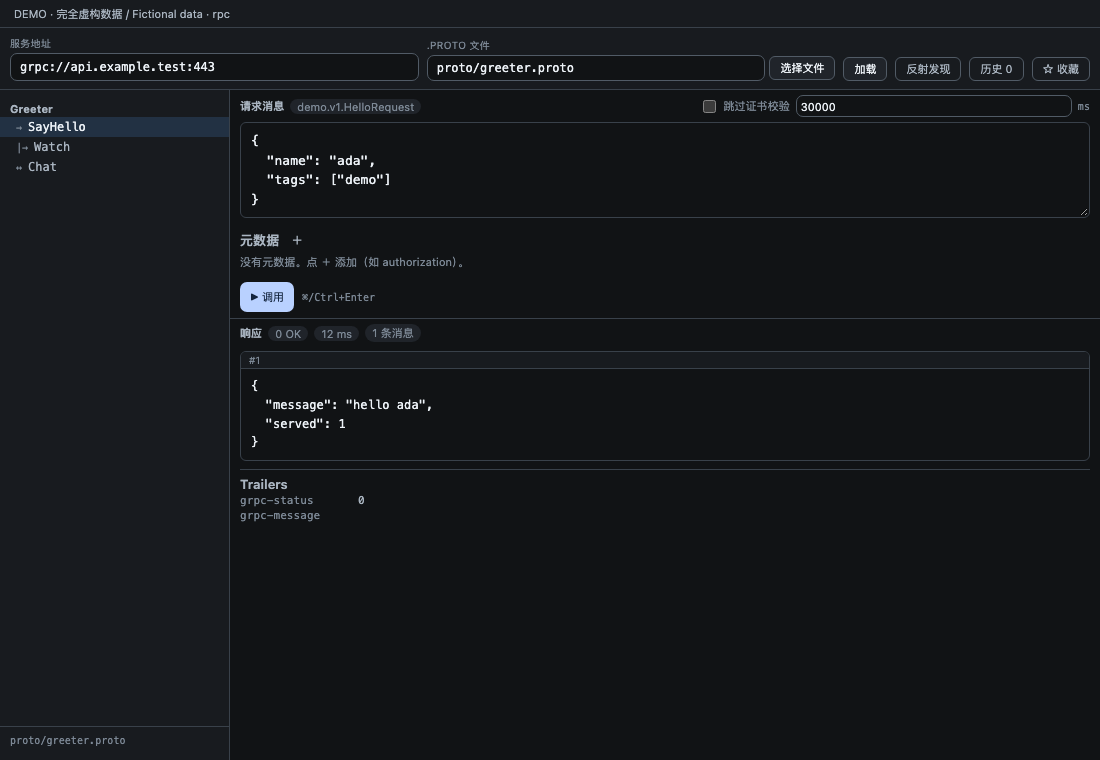
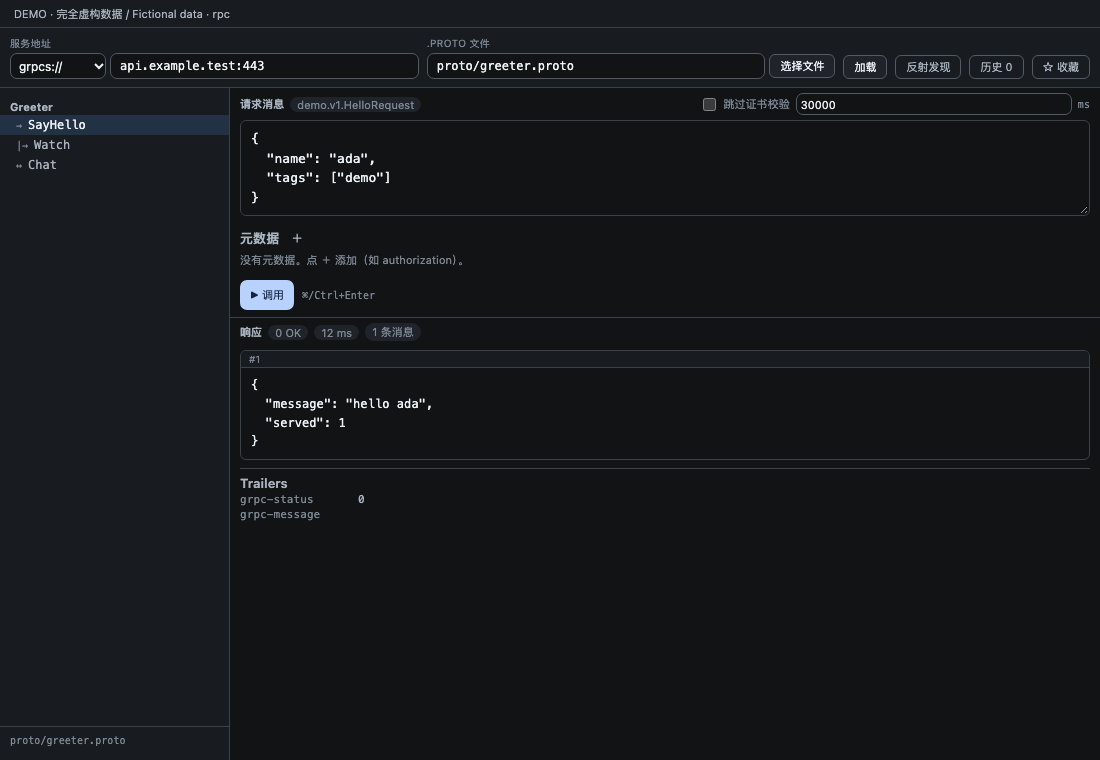
feat(rpc): the address field takes host:port with the scheme as a selector

diff --git a/client.js b/client.js
@@ -434,6 +434,7 @@ var zh = {
   "rpc.reflectionUnavailable": "该服务未开启反射，请改用 .proto 文件",
   "rpc.skippedServices": "部分服务没有可用的描述符，已跳过",
   "rpc.browse": "选择文件",
+  "rpc.scheme": "协议（grpc 明文 / grpcs TLS）",
   "rpc.browseHint": "从工作区里挑一个 .proto 文件",
   "rpc.pickProto": "选择 .proto 文件",
   "rpc.pickPlaceholder": "搜索 .proto 文件…",
@@ -1155,6 +1156,7 @@ var en = {
   "rpc.reflectionUnavailable": "This server does not expose reflection; use a .proto file instead",
   "rpc.skippedServices": "Some services have no descriptors and were skipped",
   "rpc.browse": "Choose file",
+  "rpc.scheme": "Scheme (grpc plaintext / grpcs TLS)",
   "rpc.browseHint": "Pick a .proto file from the workspace",
   "rpc.pickProto": "Choose a .proto file",
   "rpc.pickPlaceholder": "Search .proto files…",
@@ -8850,6 +8852,9 @@ var CSS2 = `
 .cerpc-response{border-top:.5px solid var(--dsw-alias-border-l1,#333);background:var(--dsw-alias-bg-base,#141618)}
 .cerpc-pane-head{flex:none;display:flex;align-items:center;gap:6px;padding:5px 10px;font-size:11px;color:var(--dsw-alias-label-tertiary,#889);min-height:26px;flex-wrap:wrap}
 .cerpc-pane-title{font-weight:600;color:var(--dsw-alias-label-secondary,#aab)}
+.cerpc-address{display:flex;gap:4px;align-items:center;min-width:0}
+.cerpc-scheme{width:96px;height:26px;font-size:12px;padding:0 4px;flex:0 0 auto}
+.cerpc-host{min-width:0;flex:1 1 auto}
 .cerpc-proto{position:relative}
 .cerpc-proto-row{display:flex;gap:4px;align-items:center}
 .cerpc-picker{position:absolute;top:100%;left:0;right:0;z-index:30;margin-top:4px;padding:6px;display:flex;flex-direction:column;gap:6px;background:var(--dsw-alias-bg-layer-1,#1d2126);border:.5px solid var(--dsw-alias-border-l1,#39414a);border-radius:6px;box-shadow:0 8px 24px rgba(0,0,0,.35)}
@@ -13709,6 +13714,25 @@ function ResultGrid({ t, result, onCell, onSort, order, dir }) {
   );
 }
 
+// src/client/grpcaddr.js
+var GRPC_SCHEMES = ["grpc://", "grpcs://"];
+function splitAddress(value) {
+  const text = String(value ?? "").trim();
+  const lower = text.toLowerCase();
+  for (const scheme of GRPC_SCHEMES) {
+    if (lower.startsWith(scheme)) return { scheme, host: text.slice(scheme.length) };
+  }
+  return { scheme: "grpc://", host: text };
+}
+function joinAddress(scheme, host) {
+  const known = GRPC_SCHEMES.includes(scheme) ? scheme : "grpc://";
+  const text = String(host ?? "").trim();
+  if (text === "") return "";
+  const inner = splitAddress(text);
+  if (inner.host !== text) return `${inner.scheme}${inner.host}`;
+  return `${known}${text}`;
+}
+
 // src/client/rpc.js
 function parseJsonText(text) {
   const trimmed = String(text ?? "").trim();
@@ -13933,6 +13957,7 @@ function RpcView({ t, useTabInfo, sessionId, useSessions, incoming }) {
     }
   }, [address, insecureTls, timeoutMs, t]);
   const [pickerOpen, setPickerOpen] = useState(false);
+  const addressParts = splitAddress(address);
   const pickProto = useCallback((path) => {
     setPickerOpen(false);
     setProtoPath(path);
@@ -14029,7 +14054,23 @@ function RpcView({ t, useTabInfo, sessionId, useSessions, incoming }) {
         "label",
         { className: "cerpc-field" },
         h("span", { className: "cerpc-label" }, t("rpc.address")),
-        h("input", { className: "ce-input cerpc-input", value: address, spellCheck: false, placeholder: "grpc://host:50051", onChange: (event) => setAddress(event.target.value) })
+        h(
+          "div",
+          { className: "cerpc-address" },
+          h("select", {
+            className: "ce-input cerpc-scheme",
+            value: addressParts.scheme,
+            "aria-label": t("rpc.scheme"),
+            onChange: (event) => setAddress(joinAddress(event.target.value, addressParts.host))
+          }, GRPC_SCHEMES.map((scheme) => h("option", { key: scheme, value: scheme }, scheme))),
+          h("input", {
+            className: "ce-input cerpc-input cerpc-host",
+            value: addressParts.host,
+            spellCheck: false,
+            placeholder: "10.0.0.1:50051",
+            onChange: (event) => setAddress(joinAddress(addressParts.scheme, event.target.value))
+          })
+        )
       ),
       h(
         "div",

diff --git a/src/client/rpc.js b/src/client/rpc.js
@@ -15,6 +15,7 @@
 import { Fragment, h, useCallback, useEffect, useMemo, useRef, useState } from "./react.js";
 import { api } from "./api.js";
 import { useAutoHeight } from "./autosize.js";
+import { GRPC_SCHEMES, joinAddress, splitAddress } from "./grpcaddr.js";
 import { RPC_TAB_ID, RPC_TAB_KIND } from "./constants.js";
 import { apiKey, migrateLegacyApiStores } from "./apistore.js";
 import { activeVariables, entryLabel, filterByProtocol, HISTORY_CAP, interpolateDeep, interpolateVariables, withProtocol } from "./apientries.js";
@@ -277,6 +278,8 @@ export function RpcView({ t, useTabInfo, sessionId, useSessions, incoming }) {
 	}, [address, insecureTls, timeoutMs, t]);
 
 	const [pickerOpen, setPickerOpen] = useState(false);
+	// The field shows `host:port`; the scheme is the selector beside it.
+	const addressParts = splitAddress(address);
 
 	/** A file chosen in the picker is also loaded: one click, methods appear. */
 	const pickProto = useCallback((path) => {
@@ -378,7 +381,20 @@ export function RpcView({ t, useTabInfo, sessionId, useSessions, incoming }) {
 		h("div", { className: "cerpc-toolbar" },
 			h("label", { className: "cerpc-field" },
 				h("span", { className: "cerpc-label" }, t("rpc.address")),
-				h("input", { className: "ce-input cerpc-input", value: address, spellCheck: false, placeholder: "grpc://host:50051", onChange: (event) => setAddress(event.target.value) })),
+				h("div", { className: "cerpc-address" },
+					h("select", {
+						className: "ce-input cerpc-scheme",
+						value: addressParts.scheme,
+						"aria-label": t("rpc.scheme"),
+						onChange: (event) => setAddress(joinAddress(event.target.value, addressParts.host)),
+					}, GRPC_SCHEMES.map((scheme) => h("option", { key: scheme, value: scheme }, scheme))),
+					h("input", {
+						className: "ce-input cerpc-input cerpc-host",
+						value: addressParts.host,
+						spellCheck: false,
+						placeholder: "10.0.0.1:50051",
+						onChange: (event) => setAddress(joinAddress(addressParts.scheme, event.target.value)),
+					}))),
 			h("div", { className: "cerpc-field cerpc-proto" },
 				h("span", { className: "cerpc-label" }, t("rpc.proto")),
 				h("div", { className: "cerpc-proto-row" },

diff --git a/src/client/grpcaddr.js b/src/client/grpcaddr.js
@@ -1,0 +1,53 @@
+/* ---------------- gRPC address: the scheme is a choice, not typing ----------------
+ *
+ * A person debugging a service knows the host and port; typing `grpc://` in
+ * front of it every time is noise, and forgetting it is a failed call. The
+ * field therefore shows only `host:port` and the scheme lives in a selector
+ * beside it. `address` keeps the full form internally, so the call path, the
+ * history and environment interpolation are unchanged.
+ */
+
+/** Schemes this panel can speak. */
+export const GRPC_SCHEMES = ["grpc://", "grpcs://"];
+
+/**
+ * Split a full address into its scheme and the part the user edits.
+ *
+ * @param value - `grpc://host:port`, `grpcs://host:port`, or a bare `host:port`
+ * @returns `{scheme, host}`; an unknown or missing scheme means plaintext gRPC
+ */
+export function splitAddress(value) {
+	const text = String(value ?? "").trim();
+	const lower = text.toLowerCase();
+	for (const scheme of GRPC_SCHEMES) {
+		if (lower.startsWith(scheme)) return { scheme, host: text.slice(scheme.length) };
+	}
+	return { scheme: "grpc://", host: text };
+}
+
+/**
+ * Put a scheme back in front of a host.
+ *
+ * @param scheme - one of {@link GRPC_SCHEMES}
+ * @param host - what the user typed; a pasted full address keeps its own scheme
+ * @returns the full address, or "" when nothing was typed
+ */
+export function joinAddress(scheme, host) {
+	const known = GRPC_SCHEMES.includes(scheme) ? scheme : "grpc://";
+	const text = String(host ?? "").trim();
+	if (text === "") return "";
+	const inner = splitAddress(text);
+	// A pasted `grpcs://…` wins over whichever scheme was selected.
+	if (inner.host !== text) return `${inner.scheme}${inner.host}`;
+	return `${known}${text}`;
+}
+
+/**
+ * The scheme an address actually uses (also after a paste).
+ *
+ * @param value - any accepted address form
+ * @returns `"grpc://"` or `"grpcs://"`
+ */
+export function schemeOf(value) {
+	return splitAddress(value).scheme;
+}

diff --git a/src/client/styles.js b/src/client/styles.js
@@ -521,6 +521,9 @@ export const CSS = `
 .cerpc-response{border-top:.5px solid var(--dsw-alias-border-l1,#333);background:var(--dsw-alias-bg-base,#141618)}
 .cerpc-pane-head{flex:none;display:flex;align-items:center;gap:6px;padding:5px 10px;font-size:11px;color:var(--dsw-alias-label-tertiary,#889);min-height:26px;flex-wrap:wrap}
 .cerpc-pane-title{font-weight:600;color:var(--dsw-alias-label-secondary,#aab)}
+.cerpc-address{display:flex;gap:4px;align-items:center;min-width:0}
+.cerpc-scheme{width:96px;height:26px;font-size:12px;padding:0 4px;flex:0 0 auto}
+.cerpc-host{min-width:0;flex:1 1 auto}
 .cerpc-proto{position:relative}
 .cerpc-proto-row{display:flex;gap:4px;align-items:center}
 .cerpc-picker{position:absolute;top:100%;left:0;right:0;z-index:30;margin-top:4px;padding:6px;display:flex;flex-direction:column;gap:6px;background:var(--dsw-alias-bg-layer-1,#1d2126);border:.5px solid var(--dsw-alias-border-l1,#39414a);border-radius:6px;box-shadow:0 8px 24px rgba(0,0,0,.35)}

diff --git a/src/client/locale.js b/src/client/locale.js
@@ -367,6 +367,7 @@ export const zh = {
 	"rpc.reflectionUnavailable": "该服务未开启反射，请改用 .proto 文件",
 	"rpc.skippedServices": "部分服务没有可用的描述符，已跳过",
 	"rpc.browse": "选择文件",
+	"rpc.scheme": "协议（grpc 明文 / grpcs TLS）",
 	"rpc.browseHint": "从工作区里挑一个 .proto 文件",
 	"rpc.pickProto": "选择 .proto 文件",
 	"rpc.pickPlaceholder": "搜索 .proto 文件…",
@@ -1096,6 +1097,7 @@ export const en = {
 	"rpc.reflectionUnavailable": "This server does not expose reflection; use a .proto file instead",
 	"rpc.skippedServices": "Some services have no descriptors and were skipped",
 	"rpc.browse": "Choose file",
+	"rpc.scheme": "Scheme (grpc plaintext / grpcs TLS)",
 	"rpc.browseHint": "Pick a .proto file from the workspace",
 	"rpc.pickProto": "Choose a .proto file",
 	"rpc.pickPlaceholder": "Search .proto files…",

diff --git a/README.en.md b/README.en.md
@@ -31,7 +31,7 @@ These screenshots render the current plugin components with fictional fixtures a
 | Entry location | Tool | What you can do |
 | --- | --- | --- |
 | Left navigation | **Dev Workspace** | Unified file explorer, code editor, search, LSP navigation, and Git changes workbench. |
-| Left navigation | **Request Workbench** | HTTP and gRPC in one tab, sharing one history and one favorites list. HTTP: import or copy curl; edit URL, params, headers, body, auth and named environments; inspect response body, headers and timeline; copy runnable snippets. gRPC: pick a workspace `.proto` with **Choose file** (or paste a path), or use **Discover** to pull the schema from the server itself (no file needed), pick a method (all four streaming shapes), send a skeleton message with metadata and a timeout, and read status, messages, headers and trailers. Both protocols land in the merged history at the top, one click back into their pane. |
+| Left navigation | **Request Workbench** | HTTP and gRPC in one tab, sharing one history and one favorites list. HTTP: import or copy curl; edit URL, params, headers, body, auth and named environments; inspect response body, headers and timeline; copy runnable snippets. gRPC: type just `host:port` (the `grpc://` / `grpcs://` scheme is a selector), pick a workspace `.proto` with **Choose file**, or use **Discover** to pull the schema from the server itself (no file needed), pick a method (all four streaming shapes), send a skeleton message with metadata and a timeout, and read status, messages, headers and trailers. Both protocols land in the merged history at the top, one click back into their pane. |
 | Left navigation | **Database** | Local SQLite (built-in `node:sqlite`, no dependency) or MySQL/PostgreSQL through a CLI client — keg-only installs (`mysql-client`, `postgresql@N`) and Postgres.app are found automatically, and the dialog can name the client binary directly. Schema tree with columns and indexes, a name filter, server-side paged table browsing (sort every column, search across all of them, page through the total), multiple SQL tabs, history, CSV export and a cell inspector. A connection can be saved and reopened; its password goes to the plugin's secret vault and is never shown in the UI or sent to the client. |
 | Inside Dev Workspace | **Terminal** | Toolbar button and Command Center entry: opens the plugin's own terminal (its own VT emulator and renderer; DSH supplies the shell and the stream) in the session directory, full-screen TUIs included; the Command Center also offers Open in System Terminal, which has the Host launch iTerm/Terminal or the platform equivalent. DSH's own terminal stays on the left-rail row and `` ⌃` ``. |
 | Left navigation | **Browser** | Uses DSH-approved embedded Chromium in a multi-tab window (sub-tab strip), with bookmarks, favorites, folders, home-page and new-tab settings. |

diff --git a/CHANGELOG.md b/CHANGELOG.md
@@ -1,5 +1,13 @@
 # Changelog
 
+## Unreleased — the gRPC address is a host and two schemes, not a URL to type
+
+`grpc://` had to be typed (or was silently missing) before the call would work, so a person who knows `10.150.136.155:9000` still had to know the field's syntax.
+
+- The field now holds **only `host:port`**, with a scheme selector beside it (`grpc://` plaintext, `grpcs://` TLS). The full address is still what the panel stores, so the call path, history rows and environment interpolation are unchanged.
+- Pasting a full address still works: `grpcs://host:443` switches the selector and leaves the host part in the field. An empty field stays empty instead of becoming a lone scheme.
+- Regressions: split/join for bare and explicit forms, a pasted scheme winning over the selected one, an empty host, and the pane showing the plaintext scheme for a host typed with none.
+
 ## Unreleased — the `.proto` field can be browsed
 
 Typing a path only works when you already know it; finding one is what a file tree is for.
